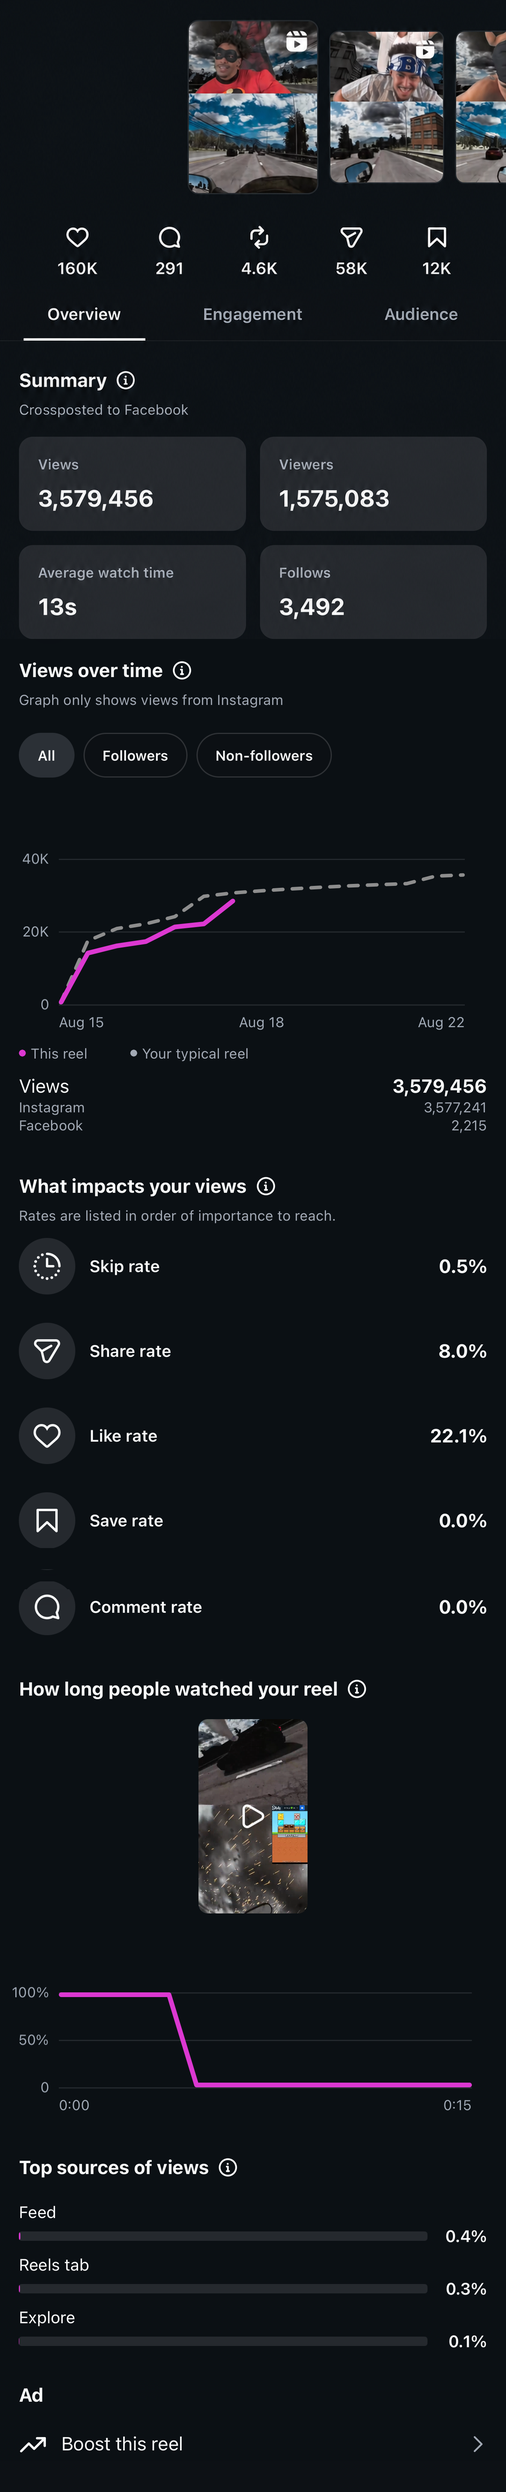
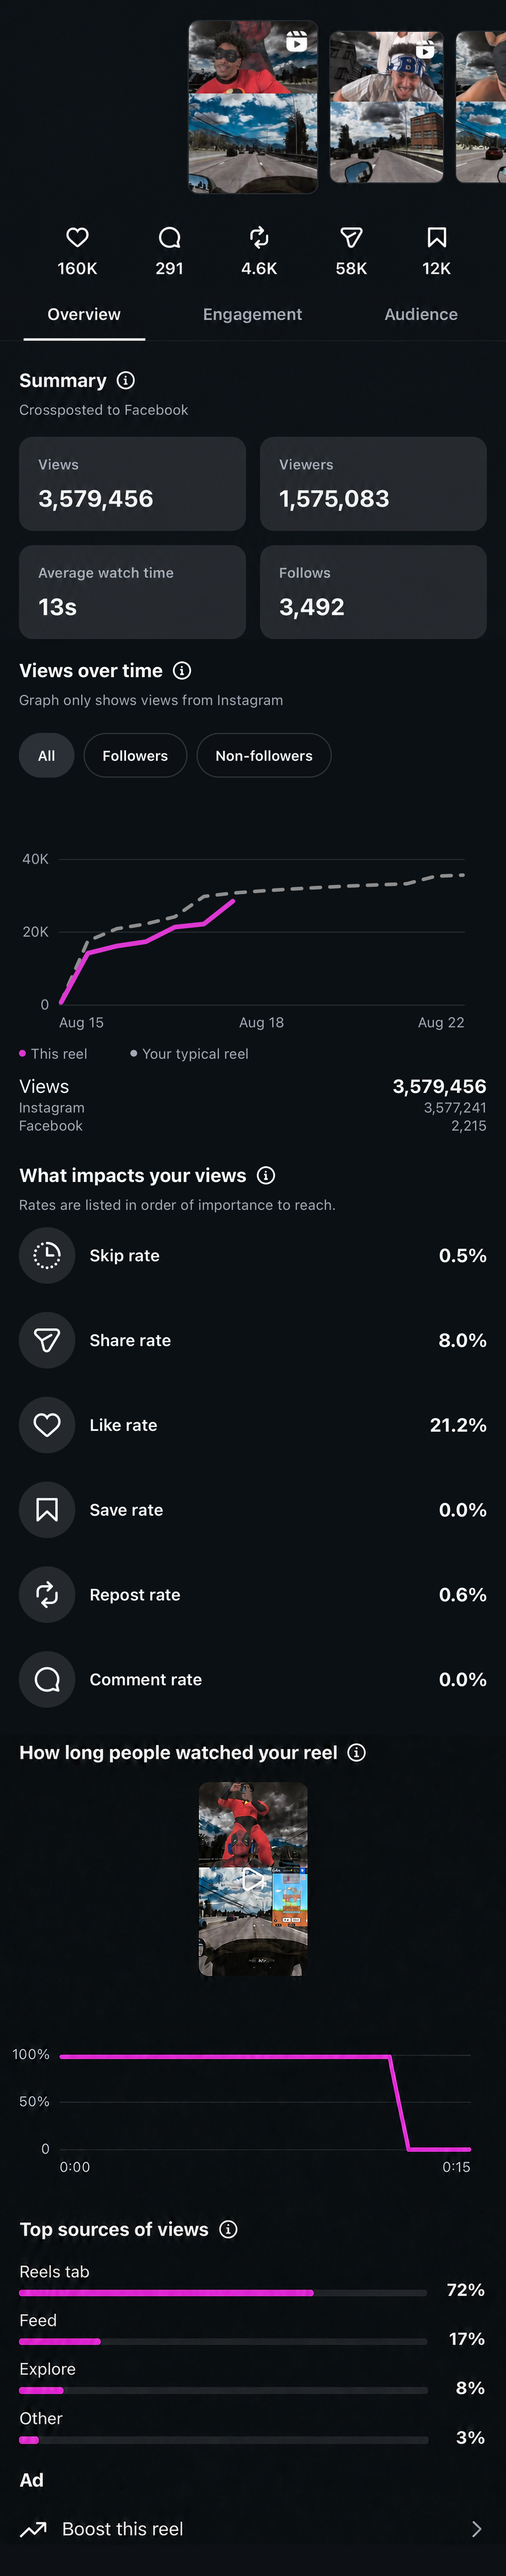
Replace Meow What-impacts and watch-time sections, using 3.png as the full retention graph.

diff --git a/new.html b/new.html
@@ -11,14 +11,14 @@
 <meta name="mobile-web-app-capable" content="yes">
 <meta name="apple-mobile-web-app-status-bar-style" content="black-translucent">
 <meta name="theme-color" content="#000000">
-<link rel="manifest" href="manifest_new.json?v=69">
-<link rel="apple-touch-icon" href="icon.png?v=69">
+<link rel="manifest" href="manifest_new.json?v=70">
+<link rel="apple-touch-icon" href="icon.png?v=70">
 <!-- native iOS launch images: iOS shows these INSTANTLY on tap (before our HTML
      loads), killing the system gray phase. Pixel-identical to the in-page splash. -->
-<link rel="apple-touch-startup-image" media="screen and (device-width: 430px) and (device-height: 932px) and (-webkit-device-pixel-ratio: 3) and (orientation: portrait)" href="launch_1290x2796.png?v=69">
-<link rel="apple-touch-startup-image" media="screen and (device-width: 393px) and (device-height: 852px) and (-webkit-device-pixel-ratio: 3) and (orientation: portrait)" href="launch_1179x2556.png?v=69">
+<link rel="apple-touch-startup-image" media="screen and (device-width: 430px) and (device-height: 932px) and (-webkit-device-pixel-ratio: 3) and (orientation: portrait)" href="launch_1290x2796.png?v=70">
+<link rel="apple-touch-startup-image" media="screen and (device-width: 393px) and (device-height: 852px) and (-webkit-device-pixel-ratio: 3) and (orientation: portrait)" href="launch_1179x2556.png?v=70">
 <title>Instagram</title>
-<script src="config.js?v=69"></script>
+<script src="config.js?v=70"></script>
 <script>
 if('serviceWorker' in navigator){
   navigator.serviceWorker.register('sw.js',{updateViaCache:'none'}).then(r=>r.update());
@@ -89,8 +89,8 @@ if('serviceWorker' in navigator){
     animation:insShine 1.4s linear infinite;}
   @keyframes insShine{from{background-position:-85% 0}to{background-position:130% 0}}
   #contentShimmer::after{
-    -webkit-mask-image:url(insights_content_shimmer_mask.png?v=69);
-    mask-image:url(insights_content_shimmer_mask.png?v=69);}
+    -webkit-mask-image:url(insights_content_shimmer_mask.png?v=70);
+    mask-image:url(insights_content_shimmer_mask.png?v=70);}
   #overviewShimmer{display:none;position:relative;overflow:hidden;width:100%;opacity:1;
     transition:opacity .38s ease;}
   #overviewShimmer.on{display:block;}
@@ -98,8 +98,8 @@ if('serviceWorker' in navigator){
   #overviewShimmer.fade{opacity:0;}
   #overviewShimmer img{display:block;width:100%;}
   #overviewShimmer::after{
-    -webkit-mask-image:url(insights_overview_shimmer_mask.png?v=69);
-    mask-image:url(insights_overview_shimmer_mask.png?v=69);}
+    -webkit-mask-image:url(insights_overview_shimmer_mask.png?v=70);
+    mask-image:url(insights_overview_shimmer_mask.png?v=70);}
   /* Overview line chart overlay — sits on the painted graph hole in the screenshot.
      Percents are of insights_overview_full.png (1290×4887): y 766–1296. */
   #viewsGraph{position:absolute;left:0;width:100%;top:15.6742%;height:10.8451%;
@@ -117,14 +117,14 @@ if('serviceWorker' in navigator){
   /* interactions: pinned header (safe-area padding, tiled real-bg strip - the /new1
      pattern) + stitched content + swipe-snap Audience carousel */
   #intHdr{position:sticky;top:0;z-index:10;padding-top:env(safe-area-inset-top,0px);
-          background:#0c1115 url(screens/n_int_hdr_bg.png?v=69) repeat-y;background-size:100% 3px;}
+          background:#0c1115 url(screens/n_int_hdr_bg.png?v=70) repeat-y;background-size:100% 3px;}
   #intHdr img{display:block;width:100%;}
   /* carousel: two snap stops (Top cities at 0, Top countries at D=1066/1290 of the
      viewport). Drag and release -> the card settles into place; ends clamp. */
   #audSnap{width:100%;overflow-x:auto;overflow-y:hidden;scroll-snap-type:x mandatory;
            -webkit-overflow-scrolling:touch;background:#0c1115;}
   #audTrack{width:182.6357%;display:flex;aspect-ratio:2356/685;
-            background:url(screens/n_aud_strip.png?v=69) no-repeat;background-size:100% 100%;}
+            background:url(screens/n_aud_strip.png?v=70) no-repeat;background-size:100% 100%;}
   #audTrack .sA{width:45.2462%;scroll-snap-align:start;}
   #audTrack .sB{width:54.7538%;scroll-snap-align:start;}
 </style>
@@ -136,7 +136,7 @@ if('serviceWorker' in navigator){
     <!-- HOME -->
     <div class="screen active" id="s-home">
       <div class="sheet">
-        <img src="screens/n_home.png?v=69">
+        <img src="screens/n_home.png?v=70">
         <div class="hot" style="left:80%;top:89%;width:20%;height:9%" onclick="goProfile()"></div>
       </div>
     </div>
@@ -144,7 +144,7 @@ if('serviceWorker' in navigator){
     <!-- PROFILE -->
     <div class="screen navpad" id="s-profile">
       <div class="sheet">
-        <img src="screens/n_profile.png?v=69">
+        <img src="screens/n_profile.png?v=70">
         <div class="hot" style="left:3%;top:36%;width:94%;height:7%" onclick="goDashboard()"></div>
       </div>
     </div>
@@ -152,7 +152,7 @@ if('serviceWorker' in navigator){
     <!-- DASHBOARD -->
     <div class="screen" id="s-dashboard">
       <div class="sheet">
-        <img id="dashImg" src="screens/n_dash.png?v=69">
+        <img id="dashImg" src="screens/n_dash.png?v=70">
         <!-- Views row -> insights. This capture has no Interactions row
              (Views / New followers / Content). Extra rows stay unwired. -->
         <div class="hot" style="left:0;top:17.8%;width:100%;height:4.8%" onclick="goInsights()"></div>
@@ -162,11 +162,11 @@ if('serviceWorker' in navigator){
     <!-- INTERACTIONS -->
     <div class="screen navpad" id="s-interactions">
       <div id="intHdr">
-        <img src="screens/n_int_header.png?v=69">
+        <img src="screens/n_int_header.png?v=70">
         <div class="hot" style="left:0;top:0;width:16%;height:58%" onclick="goBackDash()"></div>
       </div>
       <div class="sheet">
-        <img src="screens/n_int_top.png?v=69">
+        <img src="screens/n_int_top.png?v=70">
       </div>
       <div id="audSnap">
         <div id="audTrack"><div class="sA"></div><div class="sB"></div></div>
@@ -177,7 +177,7 @@ if('serviceWorker' in navigator){
     <!-- INSIGHTS -->
     <div class="screen" id="s-insights">
       <div id="insHeader">
-        <img id="h-overview" class="insTabImg on" src="insights_overview_header2.png?v=69">
+        <img id="h-overview" class="insTabImg on" src="insights_overview_header2.png?v=70">
         <img id="h-content" class="insTabImg" alt="">
         <img id="h-audience" class="insTabImg" alt="">
         <div class="hot" style="left:0;top:65%;width:33.3%;height:35%" onclick="insTab('overview')"></div>
@@ -186,11 +186,11 @@ if('serviceWorker' in navigator){
       </div>
       <div id="insScroller">
         <div id="insContent">
-          <img id="c-overview" class="insTabImg on" src="insights_overview_full.png?v=69">
+          <img id="c-overview" class="insTabImg on" src="insights_overview_full.png?v=70">
           <img id="c-content" class="insTabImg" alt="">
           <img id="c-audience" class="insTabImg" alt="">
-          <div id="overviewShimmer"><img src="insights_overview_shimmer.png?v=69" alt=""></div>
-          <div id="contentShimmer"><img src="insights_content_shimmer.png?v=69" alt=""></div>
+          <div id="overviewShimmer"><img src="insights_overview_shimmer.png?v=70" alt=""></div>
+          <div id="contentShimmer"><img src="insights_content_shimmer.png?v=70" alt=""></div>
           <div id="viewsGraph"></div>
           <div id="followsGraph"></div>
           <div id="reelHot" class="hot" onclick="goReel()"></div>
@@ -201,18 +201,18 @@ if('serviceWorker' in navigator){
     <!-- REEL INSIGHTS (Meow meow) -->
     <div class="screen" id="s-reel">
       <div id="reelHeader">
-        <img src="insights_reel_header.png?v=69">
+        <img src="insights_reel_header.png?v=70">
         <div class="hot" style="left:0;top:49%;width:18%;height:51%" onclick="goBackInsights()"></div>
       </div>
       <div id="reelScroller">
         <div id="reelContent">
-          <img src="insights_reel_full.png?v=69">
+          <img src="insights_reel_full.png?v=70">
         </div>
       </div>
     </div>
 
   </div>
-  <div id="insLoading"><img id="loadImg" src="screens/ins_spinner_c.png?v=69"></div>
+  <div id="insLoading"><img id="loadImg" src="screens/ins_spinner_c.png?v=70"></div>
 </div>
 <script>
   // ---- live profile stat numbers (posts/followers/following) ----
@@ -279,7 +279,7 @@ if('serviceWorker' in navigator){
     document.body.style.background = '#0d1115';
   });
 
-  const ASSET_V = '?v=69';   // bump when any screen image changes (cache-bust mobile)
+  const ASSET_V = '?v=70';   // bump when any screen image changes (cache-bust mobile)
   const el = id => document.getElementById(id);
   // Flow-model navigation: exactly one screen is .active (in normal flow, so it sets
   // the document height and iOS places the safe areas naturally). Transitions overlay

diff --git a/sw.js b/sw.js
@@ -4,7 +4,7 @@
 // background. If the background refresh finds a NEW app shell, clients are notified
 // so they can silently reload while the splash still covers the screen.
 // Bump CACHE on each deploy; activate purges older caches.
-const CACHE = 'ig-v69';
+const CACHE = 'ig-v70';
 
 self.addEventListener('install', () => self.skipWaiting());
 

diff --git a/screens/CROP.md b/screens/CROP.md
@@ -58,12 +58,13 @@ Header `insights_content_header2.png` (y 0–462 of folder `(9)` list shot). Bod
 
 ### Reel Insights (Meow meow)
 
-Content’s first row opens a separate screen (`#s-reel`), not the main Insights Overview/Content/Audience chrome. Sources: folder `(11)` `1.png` / `2.PNG` / `3.PNG`. Scale `1.png` to width 1290. Paint the top **177 px** of each shot.
+Content’s first row opens a separate screen (`#s-reel`), not the main Insights Overview/Content/Audience chrome. Header + opening body still come from folder `(11)` `1.png` / `2.PNG`. **What impacts your views** and **How long people watched your reel** are replaced from folder `(13)` `2.PNG` / `3.png`. Scale `3.png` to width 1290. Paint the top **177 px** of each shot. Always cut in empty black, never through text or icons, and never include the same row twice.
 
-1. Header is `1.png`, `y = 0 … 360` (through Insights title, before thumbnails) → `insights_reel_header.png`.
-2. Body — always cut in empty black, never through text or icons, and never include the same row twice:
-   - `1.png` `y = 360 … 1988` (thumbnails + Summary cards, stop at the card bottoms)
-   - `2.PNG` `y = 320 … 2648` (empty + full Views over time heading through Save rate + the gap under it; skip sticky header)
-   - `3.PNG` `y = 328 … last content` (empty + full Comment rate through Boost this reel)
-   → `insights_reel_full.png` (1290×6349). After the cut, Save→Comment label pitch must match Like→Save (216 px). Shot 3 clips the top of the Comment circle; copy the top 20 px of Save’s circle onto it.
+1. Header is folder `(11)` `1.png`, `y = 0 … 360` (through Insights title, before thumbnails) → `insights_reel_header.png`.
+2. Body:
+   - folder `(11)` `1.png` `y = 360 … 1988` (thumbnails + Summary cards)
+   - folder `(11)` `2.PNG` `y = 320 …` through Views / Instagram / Facebook (stop in empty before What impacts)
+   - folder `(13)` `2.PNG` `y = 360 … 1820` (What impacts heading through Comment rate; **do not** include that shot’s leftover How long heading or its short magenta line)
+   - folder `(13)` `3.png` `y = 548 … 2610` (full How long people watched — the 100% line to ~75% is the authority graph — through Boost this reel; skip sticky header and Comment leftover)
+   → `insights_reel_full.png` (1290×6562, includes a short bottom pad)
 3. Back returns to Insights Content. Do not use the spinner overlay.
